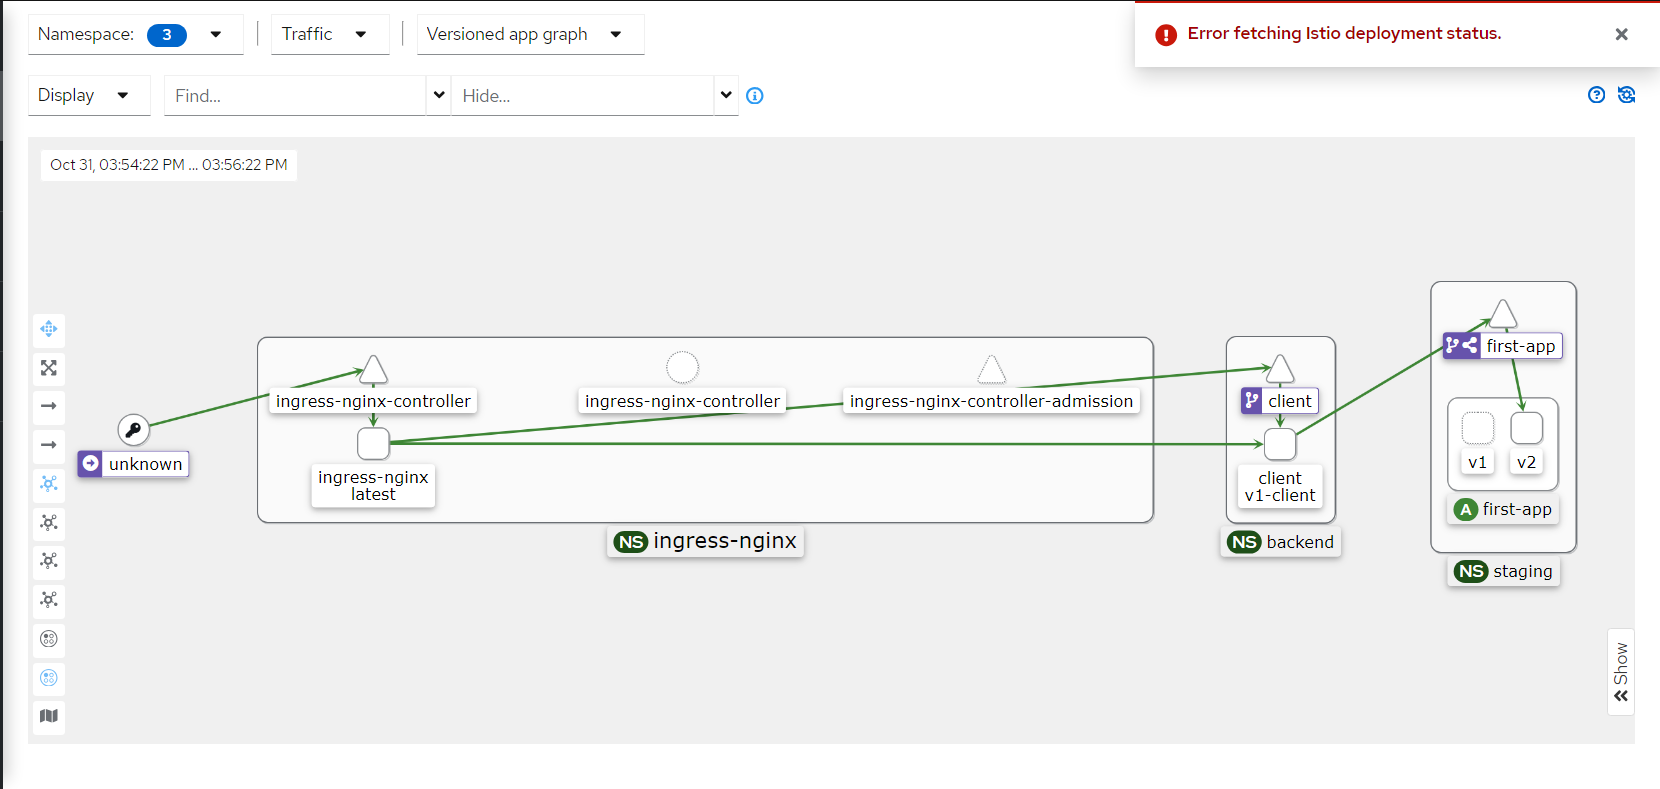
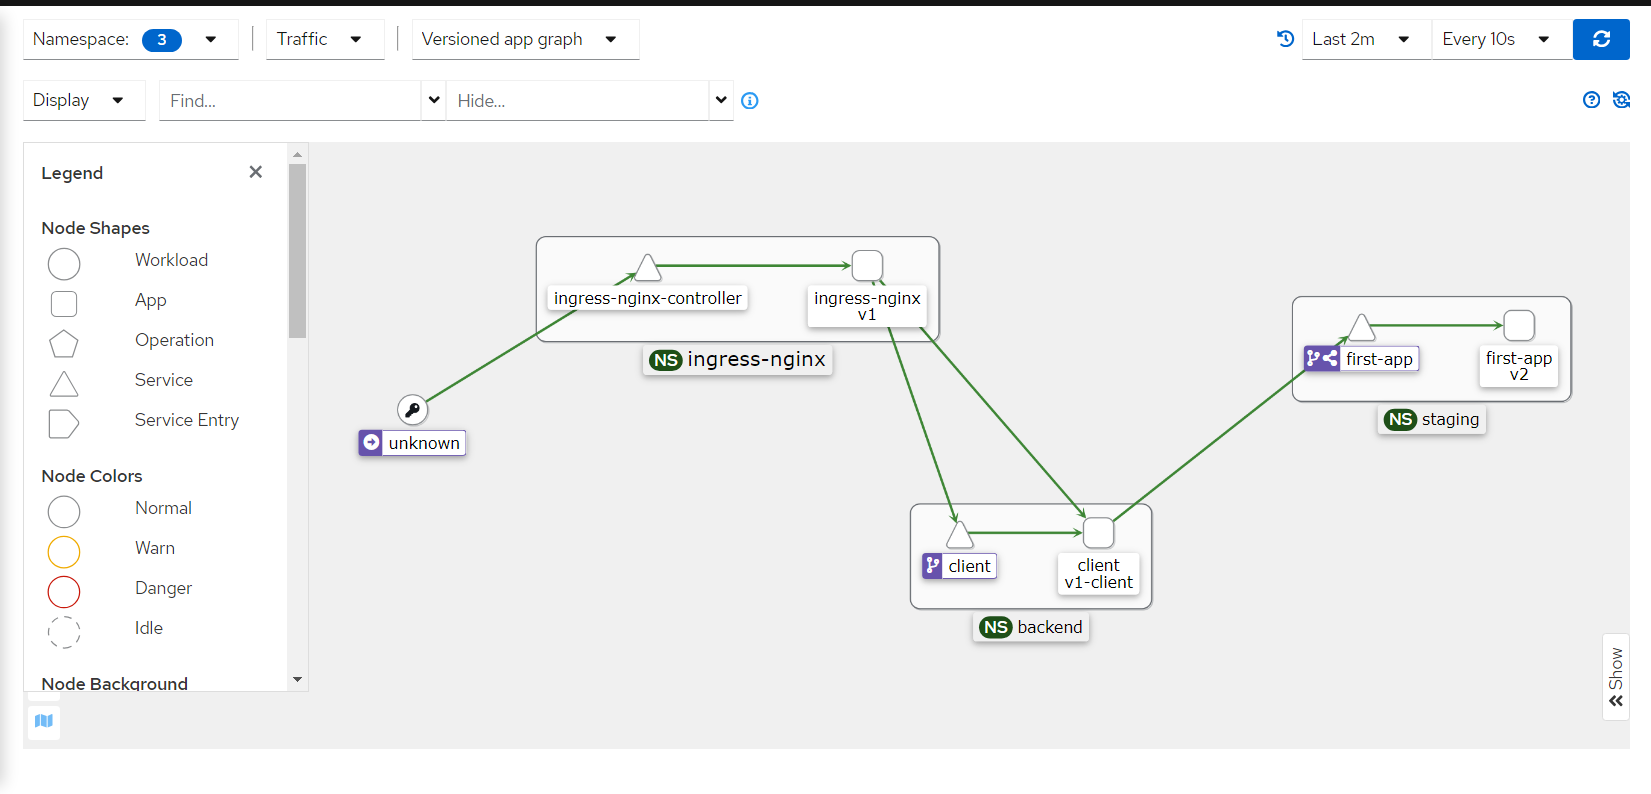
istio and kiali setup

diff --git a/kubernetes/istio/readme.md b/kubernetes/istio/readme.md
@@ -43,9 +43,19 @@ Read comments inside yaml to have full understanding
 # Nginx ingress controller with Istio:
 In order to use existing nginx ingress controller and see graphs in Kiali patching deployment\daemonset of nginx ingress controller is required.
 
+Next values required to display graph correctly:
 ```
-kubectl patch deployment ingress-nginx-controller -n ingress-nginx -p '{"spec":{"template":{"metadata":{"labels":{"istio
-":"monitor","sidecar.istio.io/inject":"true"}}}}}'
+"app":"ingress-nginx-controller" 
+"version":"v1"
+```
+Required labels to inject sidecar and monitor by podMonitor
+```
+"istio":"monitor"
+"sidecar.istio.io/inject":"true"
+```
+To patch deployment:
+```
+kubectl patch deployment ingress-nginx-controller -n ingress-nginx -p '{"spec":{"template":{"metadata":{"labels":{"istio":"monitor","sidecar.istio.io/inject":"true", "app":"ingress-nginx-controller", "version":"v1"}}}}}'
 ```
 Add `ingress-nginx` namespace to `podMonitor` as well.
 
